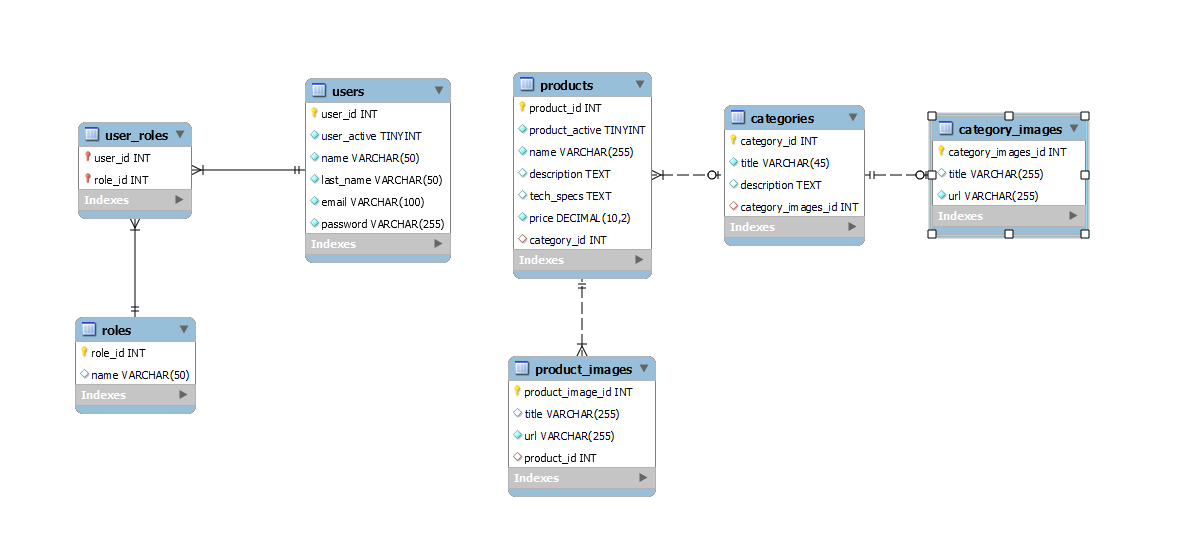
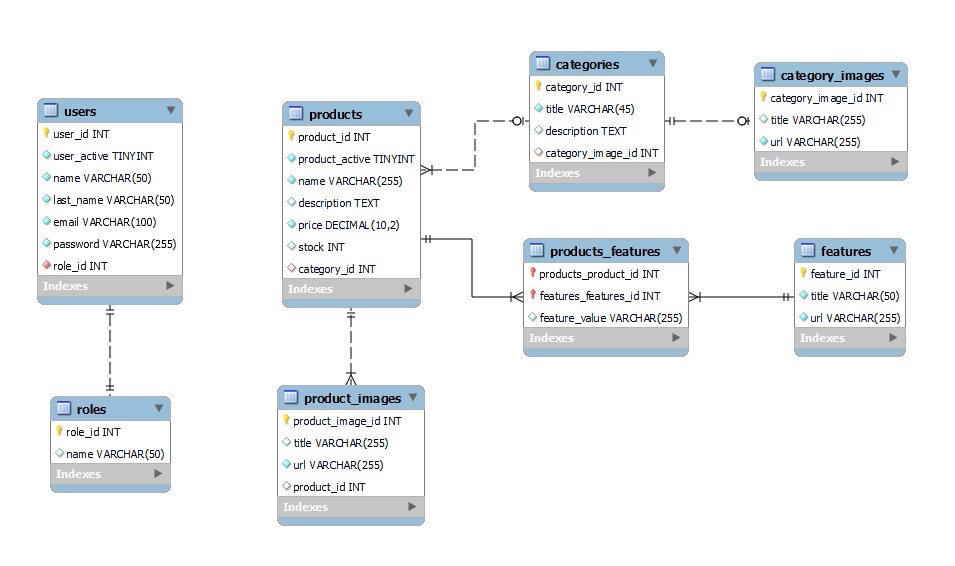
Controllers faltantes y ajustes en DB

Changed region(s): [[0.2429, 0.0924, 0.9717, 0.9547], [0.0304, 0.154, 0.2126, 0.8931]]

diff --git a/PI-C3-G4/back_end/src/main/java/com/ctdg4/ProThechnics/controller/ProductController.java b/PI-C3-G4/back_end/src/main/java/com/ctdg4/ProThechnics/controller/ProductController.java
@@ -13,6 +13,7 @@ import java.util.*;
 
 @RestController
 @RequestMapping("/products")
+@CrossOrigin(origins = "*")
 public class ProductController {
     private ProductService productService;
     private List<Product> lastReturnedProducts = new ArrayList<>();

diff --git a/PI-C3-G4/back_end/src/main/java/com/ctdg4/ProThechnics/controller/CategoryImageController.java b/PI-C3-G4/back_end/src/main/java/com/ctdg4/ProThechnics/controller/CategoryImageController.java
@@ -11,6 +11,7 @@ import java.util.List;
 import java.util.Optional;
 @RestController
 @RequestMapping("/categories/images")
+@CrossOrigin(origins = "*")
 public class CategoryImageController {
     private CategoryImageService categoryImageService;
 

diff --git a/PI-C3-G4/back_end/src/main/java/com/ctdg4/ProThechnics/controller/ProductImageController.java b/PI-C3-G4/back_end/src/main/java/com/ctdg4/ProThechnics/controller/ProductImageController.java
@@ -11,6 +11,7 @@ import java.util.List;
 import java.util.Optional;
 @RestController
 @RequestMapping("/products/images")
+@CrossOrigin(origins = "*")
 public class ProductImageController {
     private ProductImageService productImageService;
 

diff --git a/PI-C3-G4/back_end/src/main/java/com/ctdg4/ProThechnics/controller/CategoryController.java b/PI-C3-G4/back_end/src/main/java/com/ctdg4/ProThechnics/controller/CategoryController.java
@@ -12,6 +12,7 @@ import java.util.List;
 import java.util.Optional;
 @RestController
 @RequestMapping("/categories")
+@CrossOrigin(origins = "*")
 public class CategoryController {
     private CategoryService categoryService;
 
